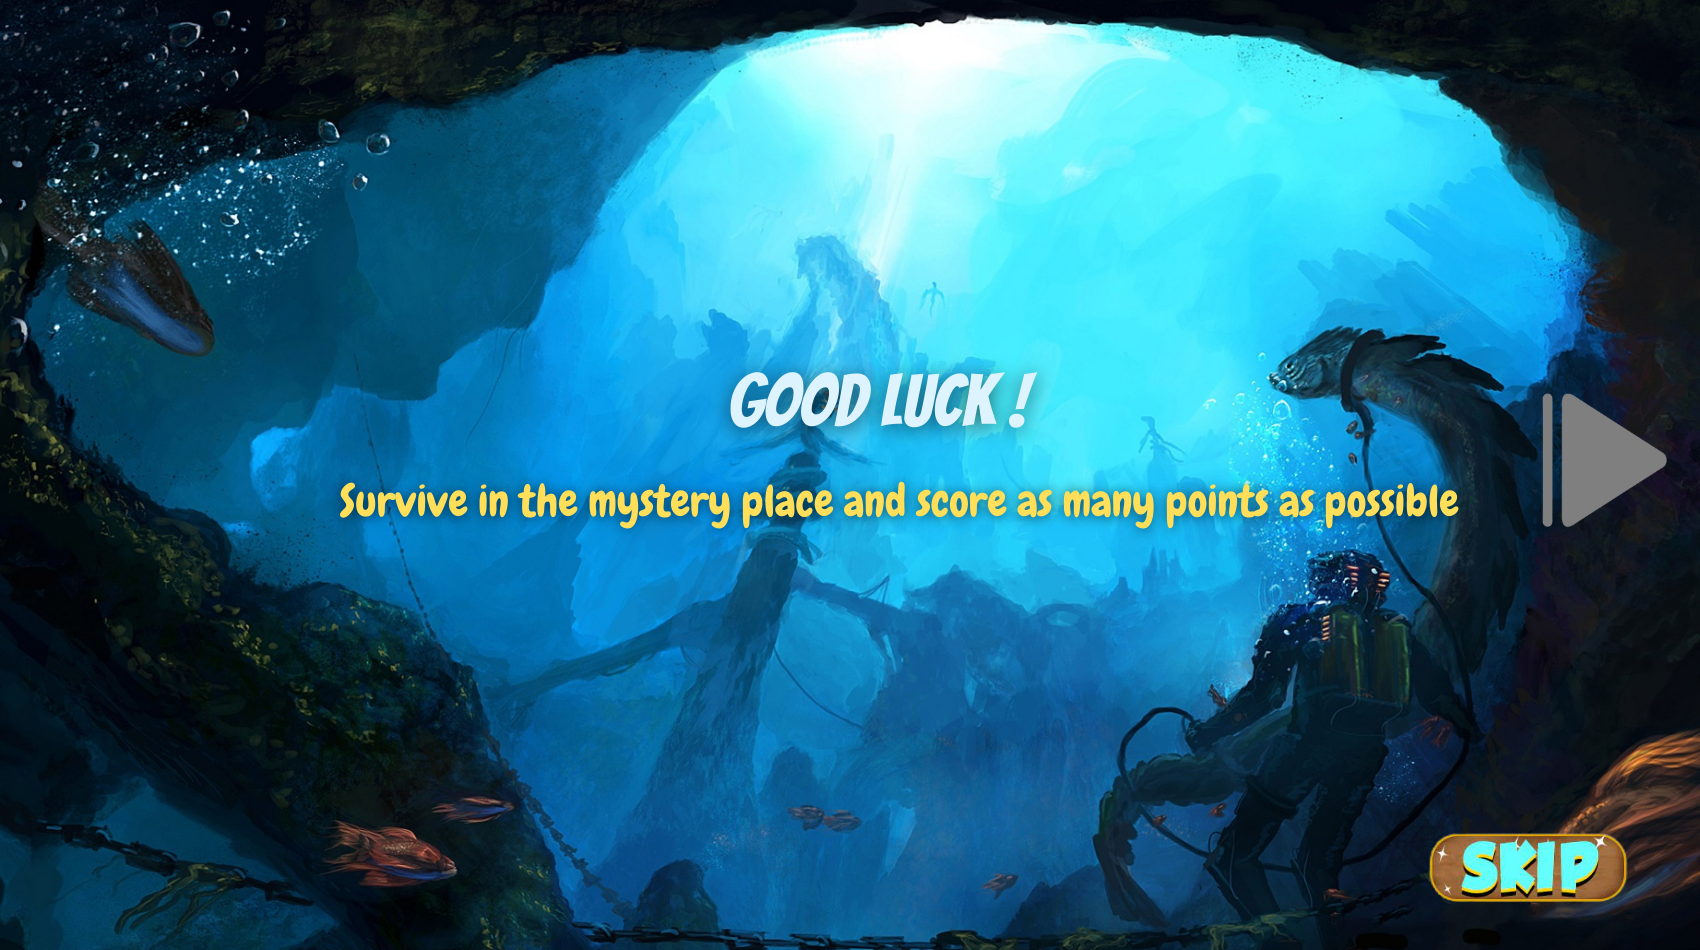
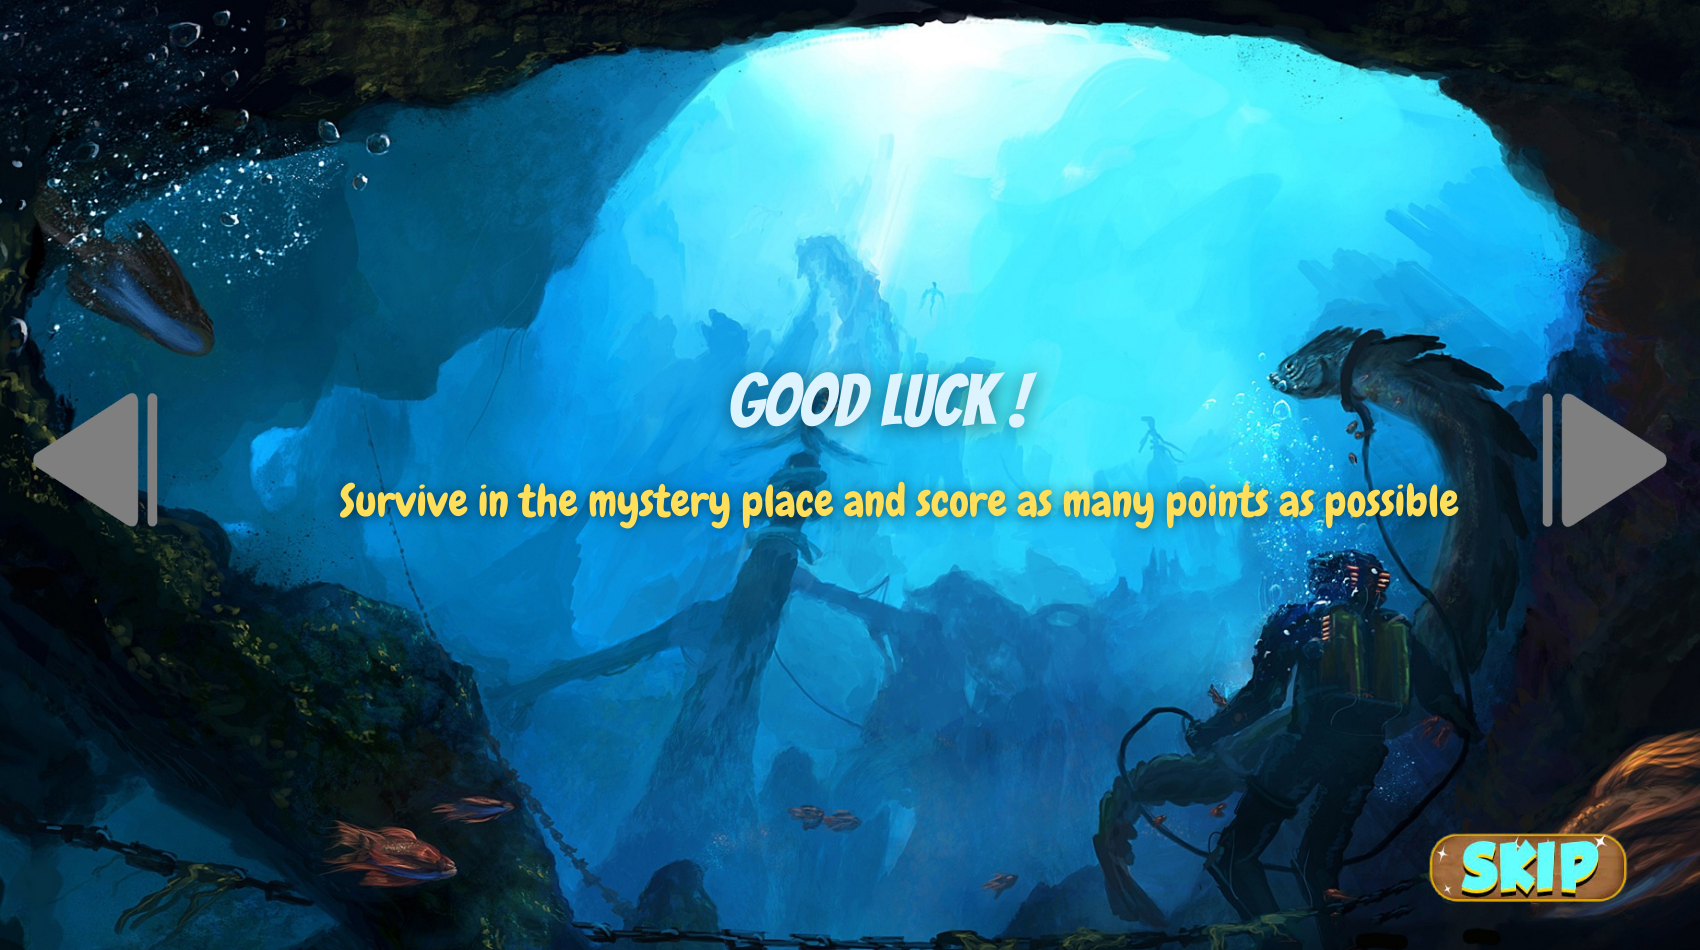
Intro Part(Story Base ) Complete with bug fix

Changed region(s): [[0.0, 0.3968, 0.0935, 0.5495]]

diff --git a/core/src/Intro/IntroScreen6.java b/core/src/Intro/IntroScreen6.java
@@ -1,4 +1,98 @@
 package Intro;
 
-public class IntroScreen6 {
+import com.badlogic.gdx.Gdx;
+import com.badlogic.gdx.Screen;
+import com.badlogic.gdx.graphics.Texture;
+import com.badlogic.gdx.utils.ScreenUtils;
+import com.mygdx.game.MyGdxGame;
+import game.AirWaterScreen;
+
+
+public class IntroScreen6 implements Screen {
+
+    MyGdxGame game;
+    Texture background6;
+
+    public IntroScreen6 (MyGdxGame game) {
+
+        this.game = game;
+        background6 = new Texture("Intro\\6.png");
+
+    }
+
+
+    @Override
+    public void show() {
+
+    }
+
+    @Override
+    public void render(float delta) {
+
+        //ScreenUtils.clear(1, 1, 1, 1);
+
+        if (Gdx.input.getX() >= 1430 && Gdx.input.getX() <= 1630 &&
+                MyGdxGame.SCREEN_HEIGHT - Gdx.input.getY() >= 50
+                && MyGdxGame.SCREEN_HEIGHT - Gdx.input.getY() <= 117) {
+            if (Gdx.input.isTouched()) {
+                this.dispose();
+                game.setScreen(new AirWaterScreen(game));
+            }
+        }
+
+        if (Gdx.input.getX() >= 1544 && Gdx.input.getX() <= 1666 &&
+                MyGdxGame.SCREEN_HEIGHT - Gdx.input.getY() >= 423
+                && MyGdxGame.SCREEN_HEIGHT - Gdx.input.getY() <= 558) {
+            if (Gdx.input.justTouched()) {
+                this.dispose();
+                game.setScreen(new AirWaterScreen(game));
+
+            }
+        }
+
+        if (Gdx.input.getX() >= 30 && Gdx.input.getX() <= 155 &&
+                MyGdxGame.SCREEN_HEIGHT - Gdx.input.getY() >= 423
+                && MyGdxGame.SCREEN_HEIGHT - Gdx.input.getY() <= 558) {
+            if (Gdx.input.justTouched()) {
+                this.dispose();
+                game.setScreen(new IntroScreen5(game));
+            }
+        }
+
+
+
+        game.batch.begin();
+
+        game.batch.draw(background6,0,0);
+
+        game.batch.end();
+
+    }
+
+
+    @Override
+    public void resize(int width, int height) {
+
+    }
+
+    @Override
+    public void pause() {
+
+    }
+
+    @Override
+    public void resume() {
+
+    }
+
+    @Override
+    public void hide() {
+
+    }
+
+    @Override
+    public void dispose() {
+
+
+    }
 }

diff --git a/core/src/Intro/IntroScreen4.java b/core/src/Intro/IntroScreen4.java
@@ -1,4 +1,98 @@
 package Intro;
 
-public class IntroScreen4 {
+import com.badlogic.gdx.Gdx;
+import com.badlogic.gdx.Screen;
+import com.badlogic.gdx.graphics.Texture;
+import com.badlogic.gdx.utils.ScreenUtils;
+import com.mygdx.game.MyGdxGame;
+import game.AirWaterScreen;
+
+
+public class IntroScreen4 implements Screen {
+
+    MyGdxGame game;
+    Texture background4;
+
+    public IntroScreen4 (MyGdxGame game) {
+
+        this.game = game;
+        background4 = new Texture("Intro\\4.png");
+
+    }
+
+
+    @Override
+    public void show() {
+
+    }
+
+    @Override
+    public void render(float delta) {
+
+        //ScreenUtils.clear(1, 1, 1, 1);
+
+        if (Gdx.input.getX() >= 1430 && Gdx.input.getX() <= 1630 &&
+                MyGdxGame.SCREEN_HEIGHT - Gdx.input.getY() >= 50
+                && MyGdxGame.SCREEN_HEIGHT - Gdx.input.getY() <= 117) {
+            if (Gdx.input.isTouched()) {
+                this.dispose();
+                game.setScreen(new AirWaterScreen(game));
+            }
+        }
+
+        if (Gdx.input.getX() >= 1544 && Gdx.input.getX() <= 1666 &&
+                MyGdxGame.SCREEN_HEIGHT - Gdx.input.getY() >= 423
+                && MyGdxGame.SCREEN_HEIGHT - Gdx.input.getY() <= 558) {
+            if (Gdx.input.justTouched()) {
+                this.dispose();
+                game.setScreen(new IntroScreen5(game));
+
+            }
+        }
+
+        if (Gdx.input.getX() >= 30 && Gdx.input.getX() <= 155 &&
+                MyGdxGame.SCREEN_HEIGHT - Gdx.input.getY() >= 423
+                && MyGdxGame.SCREEN_HEIGHT - Gdx.input.getY() <= 558) {
+            if (Gdx.input.justTouched()) {
+                this.dispose();
+                game.setScreen(new IntroScreen3(game));
+            }
+        }
+
+
+
+        game.batch.begin();
+
+        game.batch.draw(background4,0,0);
+
+        game.batch.end();
+
+    }
+
+
+    @Override
+    public void resize(int width, int height) {
+
+    }
+
+    @Override
+    public void pause() {
+
+    }
+
+    @Override
+    public void resume() {
+
+    }
+
+    @Override
+    public void hide() {
+
+    }
+
+    @Override
+    public void dispose() {
+
+
+    }
 }

diff --git a/core/src/Intro/IntroScreen5.java b/core/src/Intro/IntroScreen5.java
@@ -1,4 +1,98 @@
 package Intro;
 
-public class IntroScreen5 {
+import com.badlogic.gdx.Gdx;
+import com.badlogic.gdx.Screen;
+import com.badlogic.gdx.graphics.Texture;
+import com.badlogic.gdx.utils.ScreenUtils;
+import com.mygdx.game.MyGdxGame;
+import game.AirWaterScreen;
+
+
+public class IntroScreen5 implements Screen {
+
+    MyGdxGame game;
+    Texture background5;
+
+    public IntroScreen5 (MyGdxGame game) {
+
+        this.game = game;
+        background5 = new Texture("Intro\\5.png");
+
+    }
+
+
+    @Override
+    public void show() {
+
+    }
+
+    @Override
+    public void render(float delta) {
+
+        //ScreenUtils.clear(1, 1, 1, 1);
+
+        if (Gdx.input.getX() >= 1430 && Gdx.input.getX() <= 1630 &&
+                MyGdxGame.SCREEN_HEIGHT - Gdx.input.getY() >= 50
+                && MyGdxGame.SCREEN_HEIGHT - Gdx.input.getY() <= 117) {
+            if (Gdx.input.isTouched()) {
+                this.dispose();
+                game.setScreen(new AirWaterScreen(game));
+            }
+        }
+
+        if (Gdx.input.getX() >= 1544 && Gdx.input.getX() <= 1666 &&
+                MyGdxGame.SCREEN_HEIGHT - Gdx.input.getY() >= 423
+                && MyGdxGame.SCREEN_HEIGHT - Gdx.input.getY() <= 558) {
+            if (Gdx.input.justTouched()) {
+                this.dispose();
+                game.setScreen(new IntroScreen6(game));
+
+            }
+        }
+
+        if (Gdx.input.getX() >= 30 && Gdx.input.getX() <= 155 &&
+                MyGdxGame.SCREEN_HEIGHT - Gdx.input.getY() >= 423
+                && MyGdxGame.SCREEN_HEIGHT - Gdx.input.getY() <= 558) {
+            if (Gdx.input.justTouched()) {
+                this.dispose();
+                game.setScreen(new IntroScreen4(game));
+            }
+        }
+
+
+
+        game.batch.begin();
+
+        game.batch.draw(background5,0,0);
+
+        game.batch.end();
+
+    }
+
+
+    @Override
+    public void resize(int width, int height) {
+
+    }
+
+    @Override
+    public void pause() {
+
+    }
+
+    @Override
+    public void resume() {
+
+    }
+
+    @Override
+    public void hide() {
+
+    }
+
+    @Override
+    public void dispose() {
+
+
+    }
 }

diff --git a/core/src/Intro/IntroScreen3.java b/core/src/Intro/IntroScreen3.java
@@ -44,9 +44,9 @@ public class IntroScreen3 implements Screen {
         if (Gdx.input.getX() >= 1544 && Gdx.input.getX() <= 1666 &&
                 MyGdxGame.SCREEN_HEIGHT - Gdx.input.getY() >= 423
                 && MyGdxGame.SCREEN_HEIGHT - Gdx.input.getY() <= 558) {
-            if (Gdx.input.isTouched()) {
+            if (Gdx.input.justTouched()) {
                 this.dispose();
-                game.setScreen(new IntroScreen3(game));
+                game.setScreen(new IntroScreen4(game));
 
             }
         }
@@ -54,7 +54,7 @@ public class IntroScreen3 implements Screen {
         if (Gdx.input.getX() >= 30 && Gdx.input.getX() <= 155 &&
                 MyGdxGame.SCREEN_HEIGHT - Gdx.input.getY() >= 423
                 && MyGdxGame.SCREEN_HEIGHT - Gdx.input.getY() <= 558) {
-            if (Gdx.input.isTouched()) {
+            if (Gdx.input.justTouched()) {
                 this.dispose();
                 game.setScreen(new IntroScreen2(game));
             }
@@ -94,7 +94,6 @@ public class IntroScreen3 implements Screen {
     @Override
     public void dispose() {
 
-       // background3.dispose();
 
     }
 }

diff --git a/core/src/Intro/IntroScreen1.java b/core/src/Intro/IntroScreen1.java
@@ -33,7 +33,7 @@ public class IntroScreen1 implements Screen {
         if (Gdx.input.getX() >= 1430 && Gdx.input.getX() <= 1630 &&
                 MyGdxGame.SCREEN_HEIGHT - Gdx.input.getY() >= 50
                 && MyGdxGame.SCREEN_HEIGHT - Gdx.input.getY() <= 117) {
-            if (Gdx.input.isTouched()) {
+            if (Gdx.input.justTouched()) {
                 this.dispose();
                 game.setScreen(new AirWaterScreen(game));
             }
@@ -42,7 +42,7 @@ public class IntroScreen1 implements Screen {
         if (Gdx.input.getX() >= 1544 && Gdx.input.getX() <= 1666 &&
                 MyGdxGame.SCREEN_HEIGHT - Gdx.input.getY() >= 423
                 && MyGdxGame.SCREEN_HEIGHT - Gdx.input.getY() <= 558) {
-            if (Gdx.input.isTouched()) {
+            if (Gdx.input.justTouched()) {
                 this.dispose();
                 game.setScreen(new IntroScreen2(game));
             }
@@ -79,8 +79,6 @@ public class IntroScreen1 implements Screen {
 
     @Override
     public void dispose() {
-
-        //background1.dispose();
 
     }
 }

diff --git a/core/src/Intro/IntroScreen2.java b/core/src/Intro/IntroScreen2.java
@@ -45,7 +45,7 @@ public class IntroScreen2 implements Screen {
         if (Gdx.input.getX() >= 1544 && Gdx.input.getX() <= 1666 &&
                 MyGdxGame.SCREEN_HEIGHT - Gdx.input.getY() >= 423
                 && MyGdxGame.SCREEN_HEIGHT - Gdx.input.getY() <= 558) {
-            if (Gdx.input.isTouched()) {
+            if (Gdx.input.justTouched()) {
                 this.dispose();
                 game.setScreen(new IntroScreen3(game));
 
@@ -55,7 +55,7 @@ public class IntroScreen2 implements Screen {
         if (Gdx.input.getX() >= 30 && Gdx.input.getX() <= 155 &&
                 MyGdxGame.SCREEN_HEIGHT - Gdx.input.getY() >= 423
                 && MyGdxGame.SCREEN_HEIGHT - Gdx.input.getY() <= 558) {
-            if (Gdx.input.isTouched()) {
+            if (Gdx.input.justTouched()) {
                 this.dispose();
                 game.setScreen(new IntroScreen1(game));
             }
@@ -93,7 +93,6 @@ public class IntroScreen2 implements Screen {
     @Override
     public void dispose() {
 
-        //background2.dispose();
 
     }
 }
